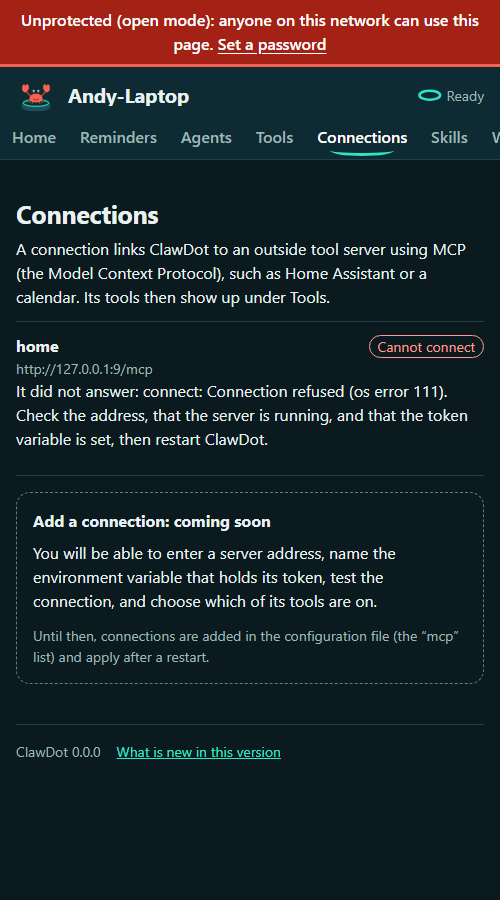
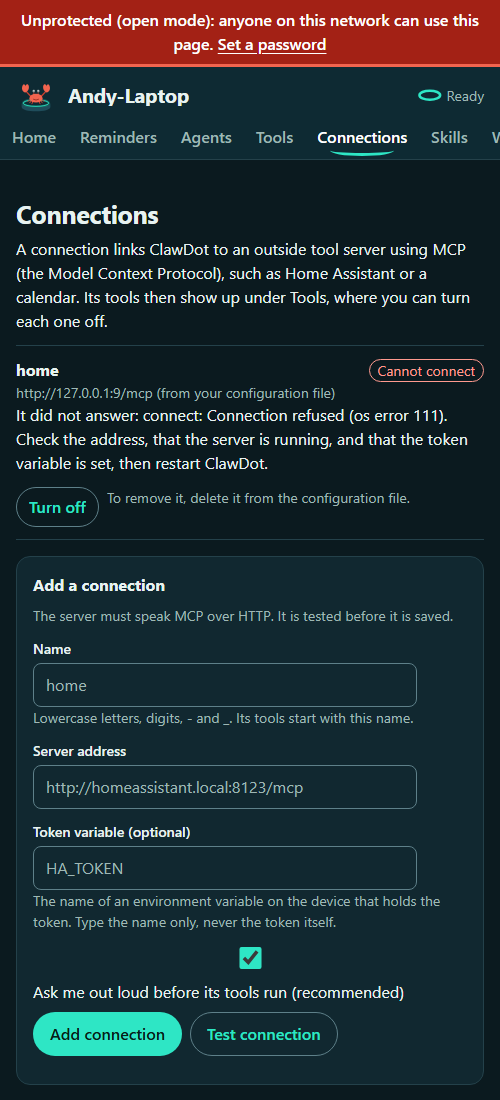
docs(ui): document tool, connection, and skill management
Architecture notes, traceability, and screenshots for the Tools, Connections, and Skills tabs. Refs: REQ-CFG-032, REQ-CFG-033, REQ-CFG-036

diff --git a/docs/quality/traceability.md b/docs/quality/traceability.md
@@ -68,7 +68,7 @@ Legend: **Done** = implemented and tested. **Partial** = some of the requirement
 
 ## Voice (VOI), config (CFG), music (MUS), extensions (EXT)
 
-Not started, except: **CFG-014..017** (listen default and bind failure message, bind before token and endpoint commands exit, snippet URL from `--listen`, console `quit`) are Done in `crates/core/src/main.rs` and verified by `crates/core/tests/binary.rs` (`a_taken_port_fails_without_revealing_a_token`, `snippets_follow_the_listen_address`, `quit_leaves_the_console`); **CFG-005, 015, 018..024** (first-run setup, password hashing and sessions, open mode on private networks only with a banner, private-peer setup rule (no setup code), `--reset-admin`, legacy token migration, password change) are Done in `core::admin`, `core::ui`, `core::app`, and `crates/core/src/ui.html`, verified by the `admin::tests` and `http::tests` groups (`first_run_offers_setup_and_refuses_everything_else`, `a_password_signs_in_for_a_session_and_can_be_changed`, `open_mode_needs_no_sign_in_but_webhooks_still_need_tokens`, `setup_needs_no_code_when_listening_beyond_loopback`, `open_mode_is_refused_on_a_public_listen_address`, `sign_in_attempts_are_rate_limited`, `an_old_administrator_token_signs_in_like_a_password`) and by `crates/core/tests/binary.rs` (`the_web_ui_api_shows_status_and_makes_the_speaker_talk`, `setup_prints_the_url_and_a_warning_but_no_code`, `legacy_token_migration_and_reset_admin`); the page itself (banner, forms) is checked by inspection only, with no browser test; **EXT-001** (no loaded third-party code) holds trivially, **EXT-004** (adapters as data) is Done, and **SEC-007** (no telemetry) holds because nothing sends anything. The voice pipeline needs audio hardware and a wake-word runtime (SPIKE-002, SPIKE-006), the portal is M4, and music is M5. **CFG-025..031** (tabbed portal, plain names, reminders management, webhook snippets, tools and connections listings, settings overview, coming-soon states): API and page content are Done and tested in `ui::tests` (`the_portal_manages_timers_alarms_and_reminders`, `every_portal_listing_needs_a_sign_in`, `the_page_uses_plain_names_and_no_radio`) and `assistant::schedule_api::tests`; layout, tab behaviour and copy were checked by hand in headless Chrome only (no browser test).
+Not started, except: **CFG-014..017** (listen default and bind failure message, bind before token and endpoint commands exit, snippet URL from `--listen`, console `quit`) are Done in `crates/core/src/main.rs` and verified by `crates/core/tests/binary.rs` (`a_taken_port_fails_without_revealing_a_token`, `snippets_follow_the_listen_address`, `quit_leaves_the_console`); **CFG-005, 015, 018..024** (first-run setup, password hashing and sessions, open mode on private networks only with a banner, private-peer setup rule (no setup code), `--reset-admin`, legacy token migration, password change) are Done in `core::admin`, `core::ui`, `core::app`, and `crates/core/src/ui.html`, verified by the `admin::tests` and `http::tests` groups (`first_run_offers_setup_and_refuses_everything_else`, `a_password_signs_in_for_a_session_and_can_be_changed`, `open_mode_needs_no_sign_in_but_webhooks_still_need_tokens`, `setup_needs_no_code_when_listening_beyond_loopback`, `open_mode_is_refused_on_a_public_listen_address`, `sign_in_attempts_are_rate_limited`, `an_old_administrator_token_signs_in_like_a_password`) and by `crates/core/tests/binary.rs` (`the_web_ui_api_shows_status_and_makes_the_speaker_talk`, `setup_prints_the_url_and_a_warning_but_no_code`, `legacy_token_migration_and_reset_admin`); the page itself (banner, forms) is checked by inspection only, with no browser test; **EXT-001** (no loaded third-party code) holds trivially, **EXT-004** (adapters as data) is Done, and **SEC-007** (no telemetry) holds because nothing sends anything. The voice pipeline needs audio hardware and a wake-word runtime (SPIKE-002, SPIKE-006), the portal is M4, and music is M5. **CFG-025..031** (tabbed portal, plain names, reminders management, webhook snippets, tools and connections listings, settings overview, coming-soon states): API and page content are Done and tested in `ui::tests` (`the_portal_manages_timers_alarms_and_reminders`, `every_portal_listing_needs_a_sign_in`, `the_page_uses_plain_names_and_no_radio`) and `assistant::schedule_api::tests`; layout, tab behaviour and copy were checked by hand in headless Chrome only (no browser test). **CFG-032..036** (tools, connections, skills managed from the portal): Done in `core::extensions`, `app::portal`, `core::ui`, and `main.rs`, verified by `extensions::tests`, `mcp::tests::servers_can_be_added_and_removed_while_running`, and `ui::tests::the_portal_manages_tools_connections_and_skills`; the forms were checked by hand in headless Chrome only. Not covered: a live MCP server (only fakes), and per-skill tool enforcement (the list is advisory by design).
 
 ## Security and non-functional
 

diff --git a/docs/design/brand.md b/docs/design/brand.md
@@ -73,4 +73,4 @@ The mark is a crab on a generic round puck with a ring of light. It does not use
 
 ## Screenshots
 
-The web UI on a phone-width window (headless Chrome against the real binary): [setup, dark](screenshots/ui-setup-dark.png), [setup, light](screenshots/ui-setup-light.png), [sign-in, dark](screenshots/ui-login-dark.png), [open-mode banner, light](screenshots/ui-open-banner-light.png). Tabbed portal (dark, 500 px wide): [Home](screenshots/portal-home-dark.png), [Reminders](screenshots/portal-reminders-dark.png), [Agents](screenshots/portal-agents-dark.png), [Tools](screenshots/portal-tools-dark.png), [Connections](screenshots/portal-connections-dark.png), [Webhooks](screenshots/portal-webhooks-dark.png). Layout and tab names: [portal.md](portal.md).
+The web UI on a phone-width window (headless Chrome against the real binary): [setup, dark](screenshots/ui-setup-dark.png), [setup, light](screenshots/ui-setup-light.png), [sign-in, dark](screenshots/ui-login-dark.png), [open-mode banner, light](screenshots/ui-open-banner-light.png). Tabbed portal (dark, 500 px wide): [Home](screenshots/portal-home-dark.png), [Reminders](screenshots/portal-reminders-dark.png), [Agents](screenshots/portal-agents-dark.png), [Tools](screenshots/portal-tools-dark.png), [Connections](screenshots/portal-connections-dark.png), [Webhooks](screenshots/portal-webhooks-dark.png), [Skills](screenshots/portal-skills-dark.png). Layout and tab names: [portal.md](portal.md).

diff --git a/docs/architecture/configuration.md b/docs/architecture/configuration.md
@@ -88,4 +88,4 @@ phone, as a tabbed portal (Home, Reminders, Agents, Tools, Connections, Skills, 
 - **Untrusted text.** Agent text is rendered as text only, and the page carries a strict Content-Security-Policy.
 - **Status** shows the model and today's request count, connected satellites, how many tools are loaded (built in, HTTP, MCP), and the clock state. It contains no secrets and no agent text. Radio and music are not shown in the portal.
 - **Test speak** makes the speaker say a short phrase (up to 200 characters, a few at a time) on the console and on any free satellite, a quick way to check the speaker end to end.
-- Not yet in the UI: editing settings (the Settings tab shows them; change the file and restart), adding or removing tools, connections, and skills (REQ-CFG-031 coming-soon states), provider keys, wake word settings, logs, and history search.
+- Not yet in the UI: editing settings (the Settings tab shows them; change the file and restart), editing a tool or connection in place (delete and add it again), provider keys, wake word settings, logs, and history search. Tools, connections, and skills are managed from their tabs (REQ-CFG-032..036).

diff --git a/docs/architecture/mcp.md b/docs/architecture/mcp.md
@@ -52,7 +52,7 @@ control, and a compromised server could try to steer the model. So:
 ## Not built yet
 
 - Resources, prompts, sampling, and server-initiated requests or notifications (only tools are used).
-- Re-listing tools while running: the list is read once at startup, so restart after changing a server.
+- Re-listing the tools of a server that is already connected: a server added in the portal is listed once when it is added; if its tools change, remove it and add it again, or restart.
 - OAuth. Use a static bearer token from the environment, or a small proxy that adds one.
-- Adding and editing MCP servers in the web UI (REQ-CFG-010). The Connections tab lists them read-only (REQ-CFG-029).
+- Editing an MCP server in place (remove it and add it again). Adding, removing, testing, and switching servers and their tools is in the Connections tab (REQ-CFG-033); see [extensibility.md](extensibility.md).
 - Tested only against a fake server in this repository; no real MCP server has been tried.

diff --git a/docs/architecture/http-tools.md b/docs/architecture/http-tools.md
@@ -49,3 +49,7 @@ file (REQ-AST-014). The core never runs third-party code (REQ-EXT-001); it only 
 - No retries and no redirects: a failed call is reported to the model, which tells the user.
 - Setting `confirm` to `false` is your choice for harmless actions (a light). Keep it on for anything that spends
   money, unlocks something, or cannot be undone.
+
+## Adding tools from the portal
+
+The Tools tab can add, switch off, and delete these tools without a restart (REQ-CFG-032): it takes the same fields as above, but the token is given as the **name** of an environment variable that must already be set on the device. Tools added there are stored in `tools.json` in the data directory, not in the configuration file; tools defined in the file can be switched off in the portal but only removed by editing the file. See [extensibility.md](extensibility.md).

diff --git a/docs/design/portal.md b/docs/design/portal.md
@@ -51,7 +51,7 @@ On a wide screen the same single column is kept (max 44 rem) so that nothing mov
 | Agents | Inbox | What arrives here is news from your coding agents (Claude Code and others); "Agents" says whose news it is |
 | Tools | n/a | Everything the assistant can do besides talking |
 | Connections | n/a | Outside tool servers (MCP). The page explains MCP in a sentence the first time |
-| Skills | n/a | Bundles of instructions for the assistant (slice 2) |
+| Skills | n/a | Named instructions you write for the assistant, each switchable, with export and import |
 | Webhooks | Endpoints | A webhook is the web address an agent posts to; this tab creates them and gives copy-paste setup |
 | Settings | Admin password | Time zone, language model, voice, addresses, limits, password, and About with the version |
 
